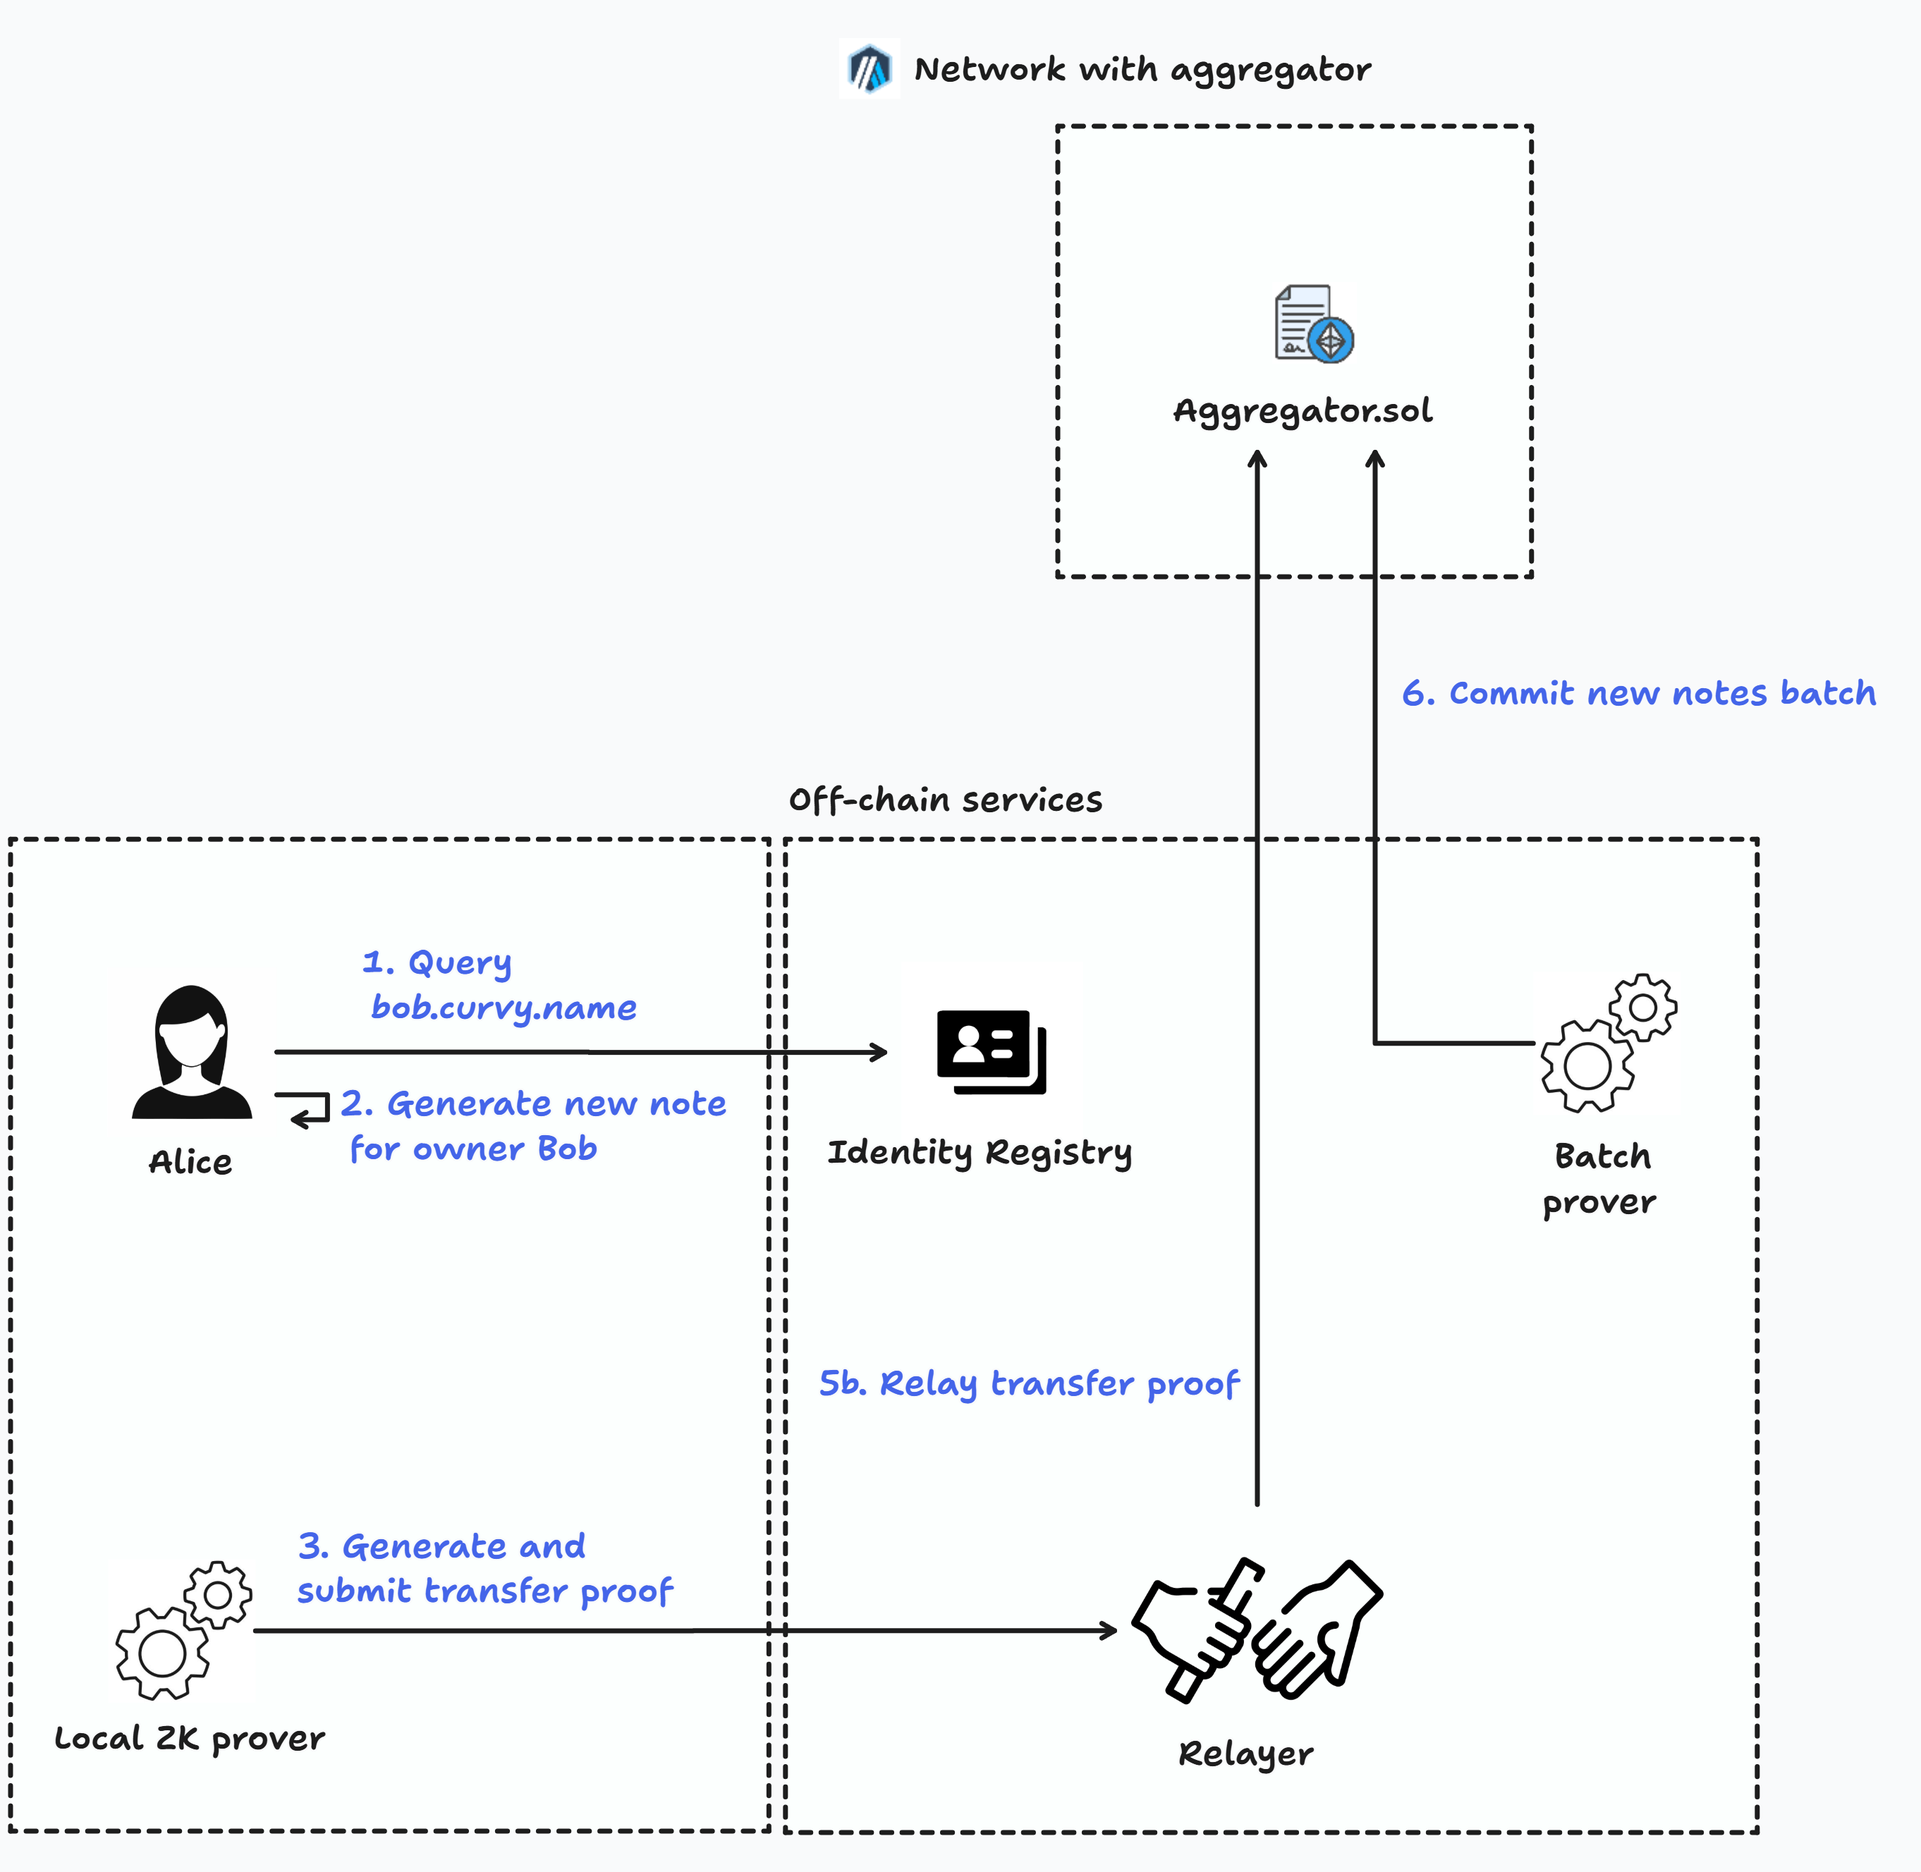
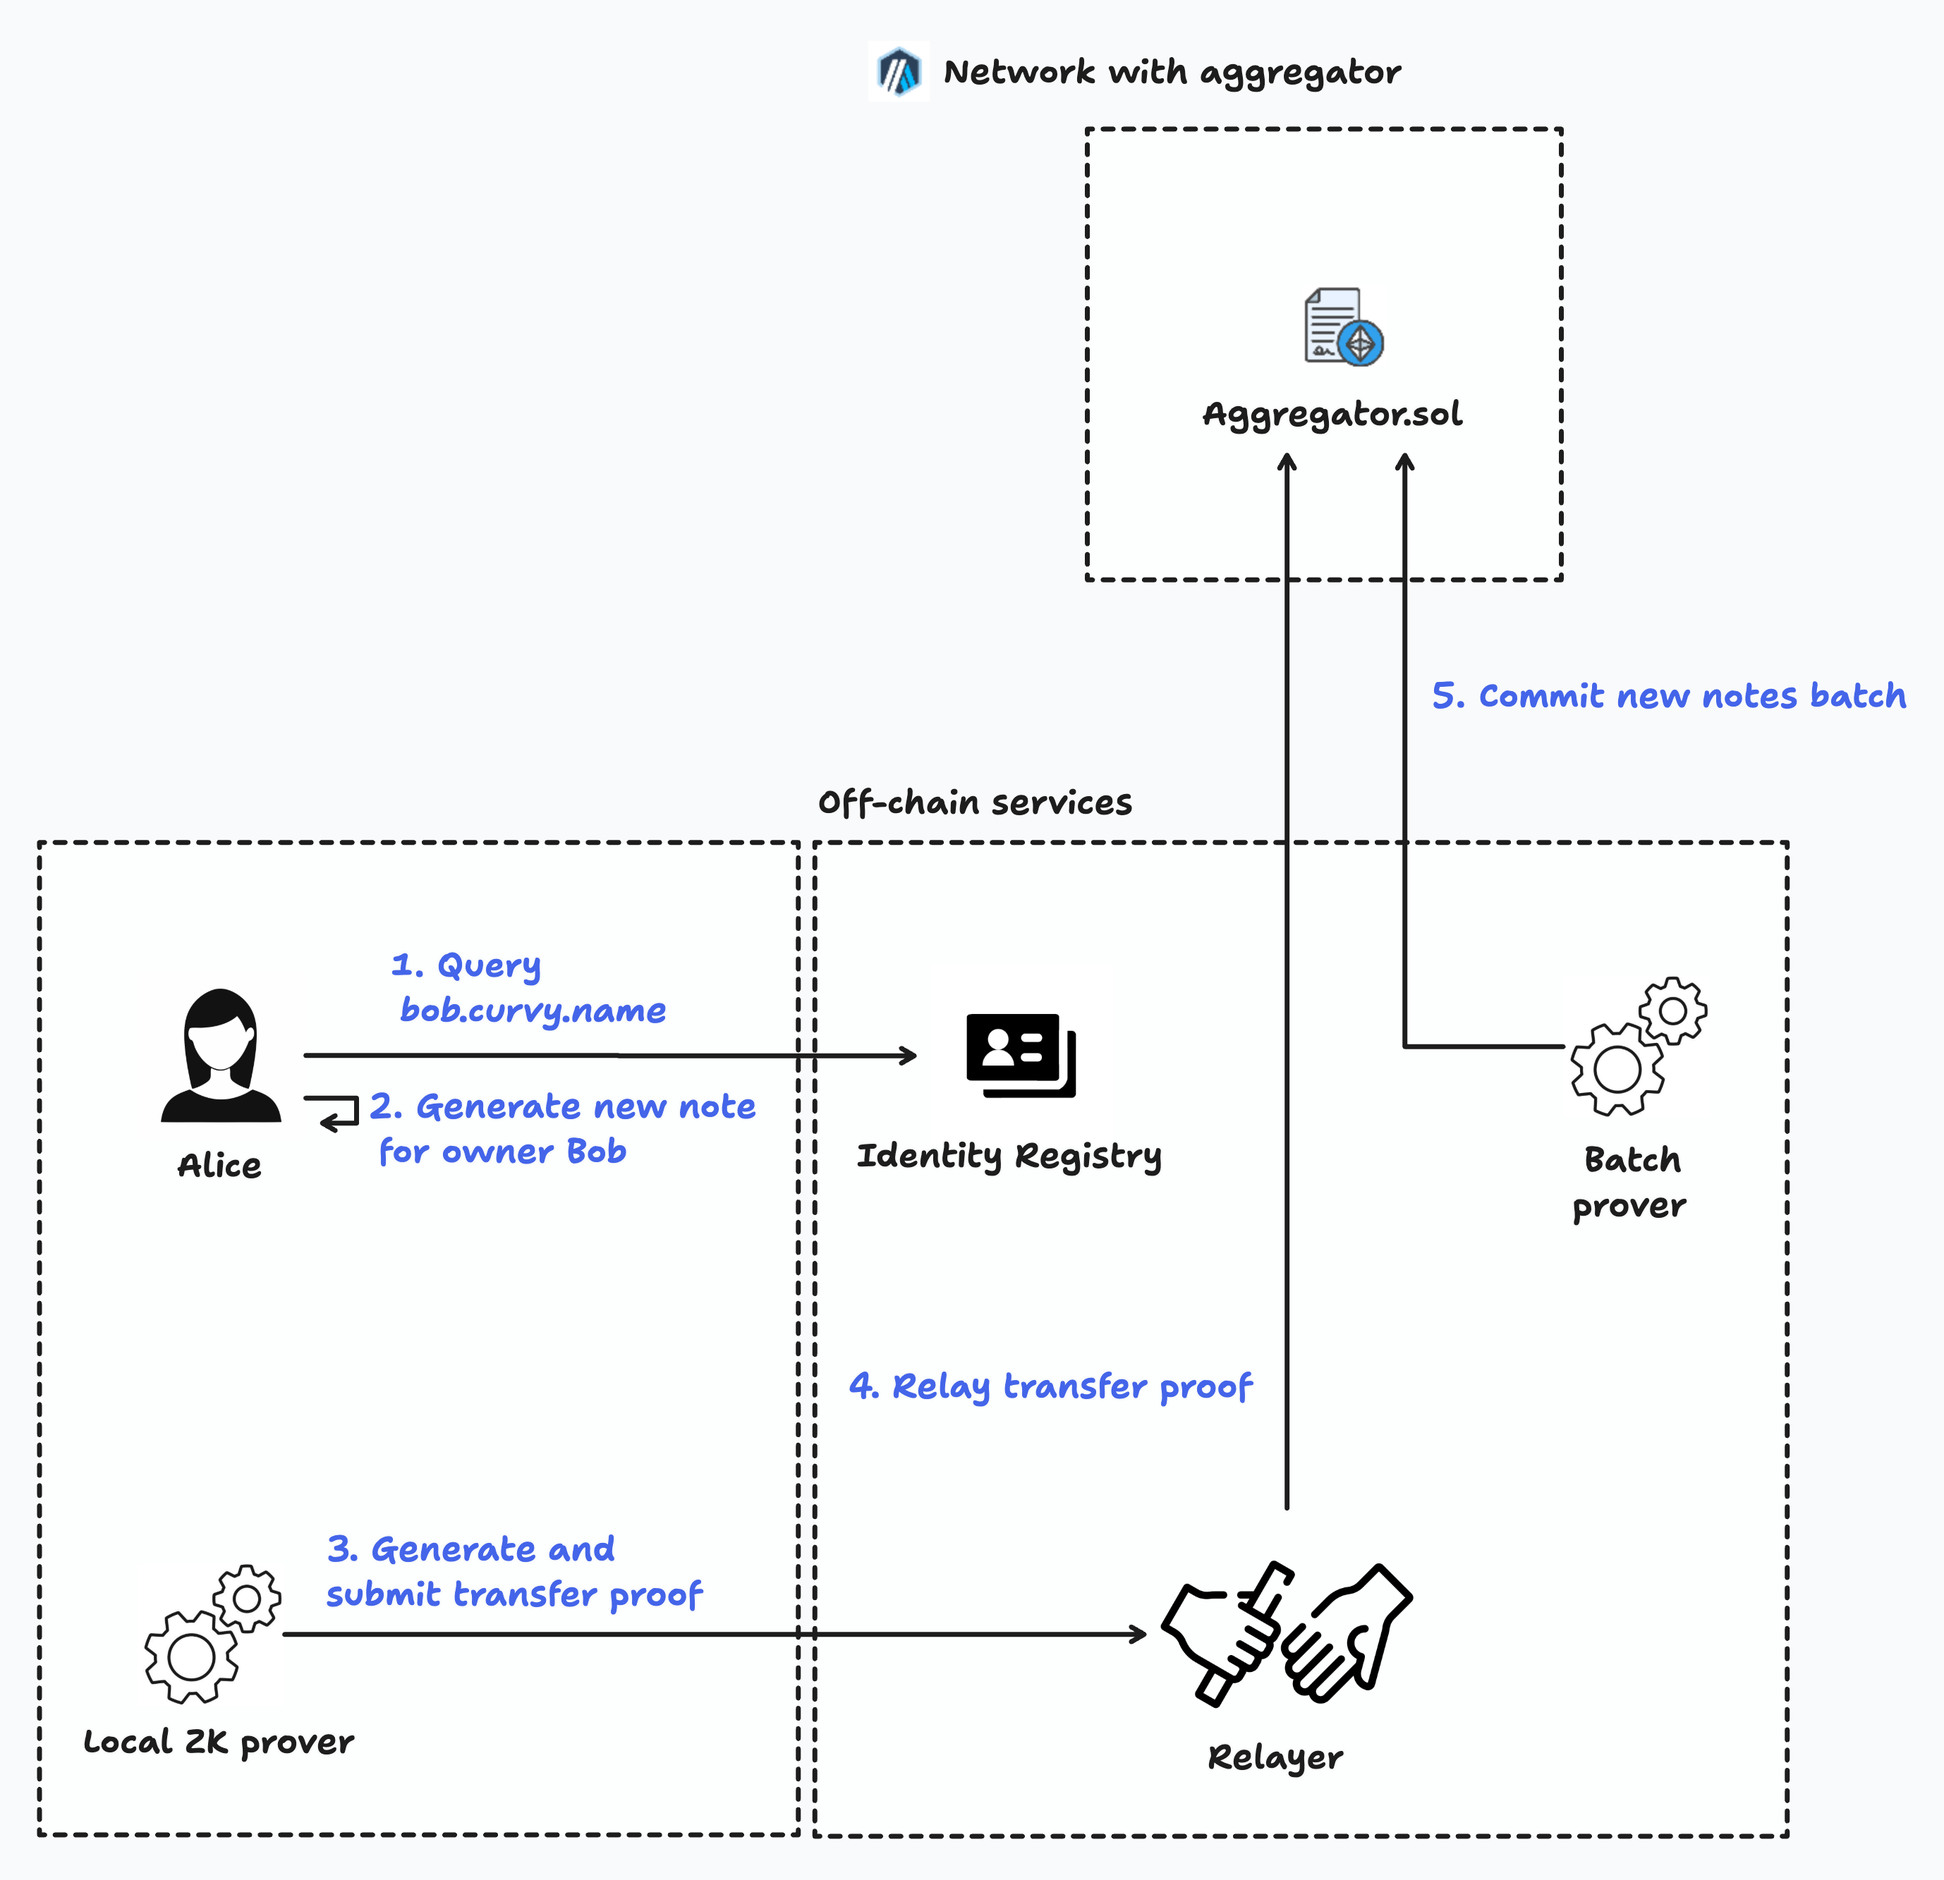
fix numeration on sender diagram

diff --git a/docs/for-the-curious/walkthroughs/sending-funds-privately.md b/docs/for-the-curious/walkthroughs/sending-funds-privately.md
@@ -18,16 +18,16 @@ Bob has a registered Curvy ID: `bob.curvy.name`
 
 ### ⚫ Curvy
 
-**5b.** The **Relayer** relays the transfer proof on-chain to **Aggregator.sol**, which verifies it and marks the spent notes' nullifiers.
+**4.** The **Relayer** relays the transfer proof on-chain to **Aggregator.sol**, which verifies it and marks the spent notes' nullifiers.
 
-**6.** The **Batch Prover** constructs a commitment proof for the new notes batch and commits it on-chain to **Aggregator.sol**. After successful verification, Bob's new note becomes part of the committed Notes tree.
+**5.** The **Batch Prover** constructs a commitment proof for the new notes batch and commits it on-chain to **Aggregator.sol**. After successful verification, Bob's new note becomes part of the committed Notes tree.
 
 ### 🟢 Bob
 
-**7.** Some time later, after logging into the Curvy App, Bob's **Curvy SDK** syncs its local Merkle tree from the **Indexer** and simultaneously scans the notes for ownership, detecting his new balance.
+**6.** Some time later, after logging into the Curvy App, Bob's **Curvy SDK** syncs its local Merkle tree from the **Indexer** and simultaneously scans the notes for ownership, detecting his new balance.
 
 > [!NOTE]
-> Steps **1**, **5b**, **6**, and **7** are shared with the [full protocol drawing](./receiving-funds-privately.md). Steps **2** and **3** are specific to this flow — in the full drawing, those numbers belong to the shielding flow, and step **8** to the withdrawal flow.
+> The equivalent actions also appear in the [full protocol drawing](./receiving-funds-privately.md), where they use the combined flow's numbering. Steps **2** and **3** are specific to this flow.
 
 > [!IMPORTANT]
 > Although this is the simplest process in Curvy, it is also the most private, as the exact:
